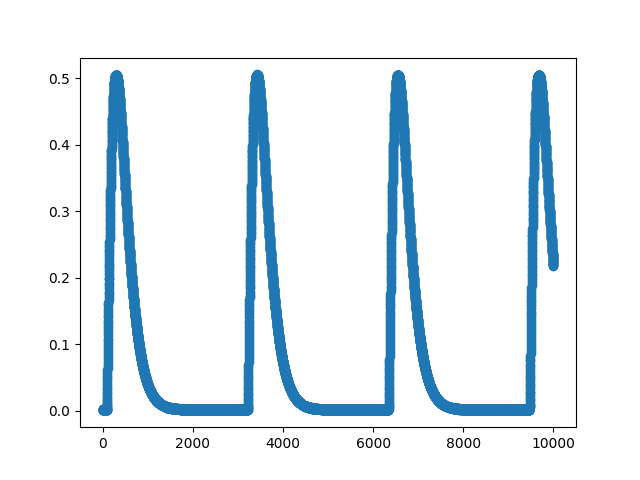
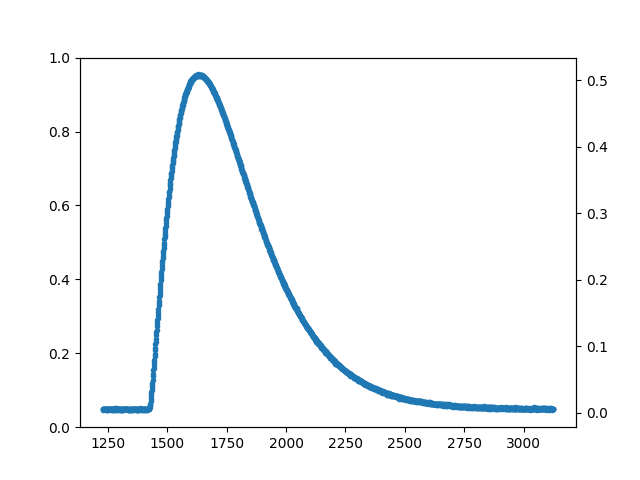
update trigger

diff --git a/SingleIRsource/instruments/PXIe-5170R.py b/SingleIRsource/instruments/PXIe-5170R.py
@@ -4,16 +4,18 @@
 # niscope module examples: https://nimi-python.readthedocs.io/en/master/niscope/examples.html
 # https://manualzz.com/doc/6830056/ni-scope-software-user-manual
 
+from operator import index
 import niscope
 import argparse
 import sys
 import matplotlib.pyplot as plt
 import numpy as np
 import pandas as pd
+from scipy.signal import savgol_filter
 
 class PXIeSignalAcq(object):
 
-    def __init__(self, device_address, trigger=0, channels=[0], records=3, sample_rate=5e7, length=10):
+    def __init__(self, device_address, trigger=0, channels=[0], records=3, sample_rate=5e7, length=4000):
         try:
             self.session = niscope.Session(device_address)
             print('Connesso')
@@ -24,9 +26,10 @@ class PXIeSignalAcq(object):
         self.trigger = trigger
         self.channels = channels
         self.records = records
+        self.record_index = 0
 
         self.session.configure_vertical(range = 5, coupling=niscope.VerticalCoupling.DC)
-        self.session.configure_horizontal_timing(min_sample_rate=sample_rate, min_num_pts=length, ref_position=50.0, num_records=records, enforce_realtime=True)
+        self.session.configure_horizontal_timing(min_sample_rate=sample_rate, min_num_pts=length, ref_position=40.0, num_records=records, enforce_realtime=True)
 
         self.session.trigger_type = niscope.TriggerType.EDGE
         self.session.trigger_source = "0"
@@ -35,6 +38,24 @@ class PXIeSignalAcq(object):
         self.session.trigger_delay_time = 0.0
 
         self.session.initiate()
+
+    def derivative_trigger(self, n):
+        arr = self.waveform[0][self.record_index].samples
+        y = savgol_filter(arr, self.length, 70, n, delta=1)
+        filtred = np.where(y[250:len(y)-250] < -0.5e-5)[0]
+
+        if len(filtred) == 0 :
+            return -1
+
+        ref_point = filtred[0] + 250
+
+        start = ref_point - 300 
+        end = ref_point + 1600
+        
+        self.record_index += 1
+
+        return arr[start:end]
+
 
     def read(self):
         wf = [] 
@@ -64,7 +85,35 @@ class PXIeSignalAcq(object):
 
     def read_dataframe(self, name = "data1.json"):
         prova = pd.read_json(name)
-        print(prova)
+
+        for i in range(self.records):
+            sample = prova.loc[i]["Samples"]
+            x = np.linspace(0,len(sample)-1,len(sample))
+            y = savgol_filter(sample, self.length, 70, 2, delta=1)
+
+            filtred = np.where(y[250:len(y)-250] < -0.5e-5)[0]
+            # se filtred è nullo esce. no segnale. MEGA IF
+
+            ref_point = filtred[0] + 250
+            print(ref_point)
+
+            start = ref_point - 300 
+            end = ref_point + 1600
+            
+            final = sample[start:end]
+
+
+            
+
+            fig, ax1 = plt.subplots()
+            ax2 = ax1.twinx()
+           # ax1.scatter(x[start:end], sample[start:end], color='g', marker=".")
+            ax2.scatter(x[start:end], final, marker=".")
+            # plt.ylim(-10,10)
+            # plt.scatter(x, sample)
+            # plt.scatter(x, y)
+            fig.savefig("imm" + str(i) + ".png")
+        
     # Set records (sampling frequency, rate, length, width,...)
     # Set triggers (edge, immediate, digital, negative, positive,...)
     # Set channels (addressing each channel)
@@ -79,7 +128,9 @@ with PXIeSignalAcq("PXI1Slot2") as test:
     test.create_dataframe()
     test.fill_dataframe()
     test.save_dataframe()
-    # test.read_dataframe()
+    test.read_dataframe()
+
+
 """
 def example(resource_name, channels, options, length, voltage):
     with niscope.Session(resource_name=resource_name, options=options) as session:
